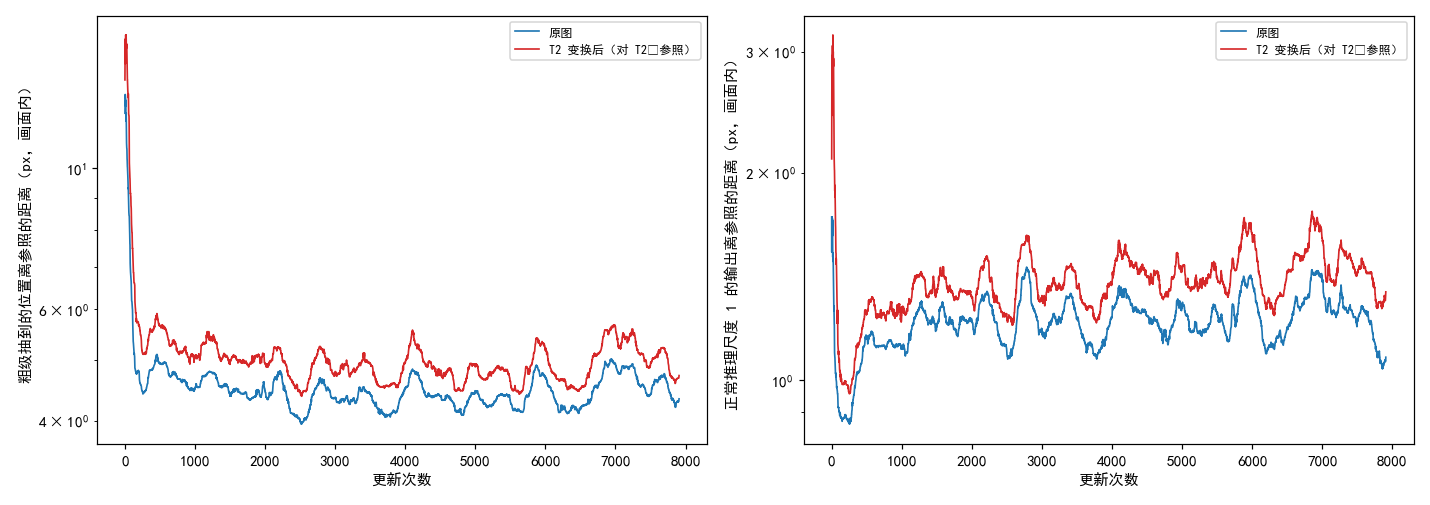
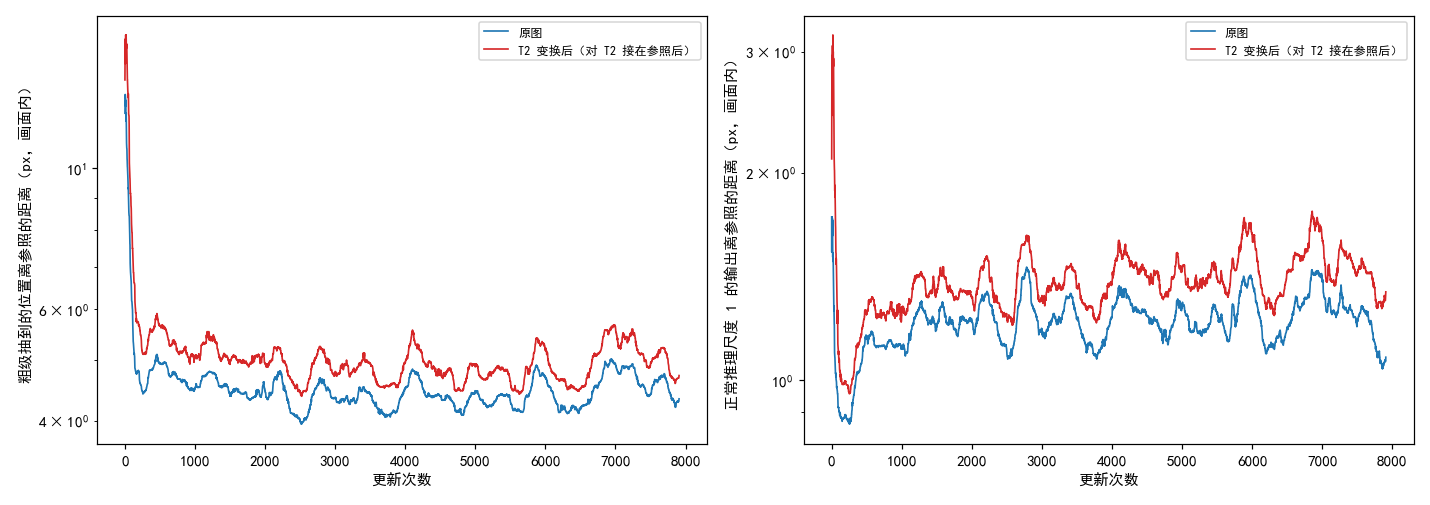
E45 Notes；图例去掉字体缺的 ∘ 后重画（#253）

Changed region(s): [[0.8308, 0.0297, 0.9846, 0.1188], [0.3385, 0.0297, 0.4923, 0.1188]]

diff --git a/runs/E45/notes.md b/runs/E45/notes.md
@@ -1,0 +1,106 @@
+# 加已知扰动等变约束奖励后，Val AUC@5 各段平均与不加相差不到 0.002，最后存档高 0.005
+
+**摘要**
+
+现有的强化学习训练里，奖励看的是模型抽到的对应离参照仿射有多近，参照是模型自己的慢速平均副本推理一次、用 RANSAC 拟合出的仿射。模型和副本一起错时，这个奖励照样高，例如两者都把大的扰动估小。本文在样本筛选门槛 0.8 的配置旁边加一项约束：每步把 SAR 再按一个已知的随机仿射 T2 变换一次，要求模型在变换后的图上抽到的对应贴近“先参照、再 T2”的复合仿射，即输入多变一个已知量，输出也恰好多变这个量。新项系数按前 50 次更新里两项梯度大小之比的中位数定为 0.83。训满 7907 次更新，32 个存档里 15 个的 Val AUC@5 低于不加的同一位置存档；按训练集遍数分四段，各段平均之差在 −0.0001 到 +0.0019 之间。最后存档 0.331 对 0.327，差 +0.0046（95% 区间 +0.0001 到 +0.0091）。训练中，变换后的图上抽到的位置离复合参照的距离始终比原图离参照远 10–20%，这个比例没有随训练缩小。按真实几何差分档，旋转、缩放估小的程度与不加相近。每次更新耗时是不加的 1.4 倍。
+
+**引言**
+
+RoMa 先在粗网格上为光学图的每个格子给出 SAR 图上各位置的概率，训练时从中为每个格子抽一个落点，再逐级细化到原图分辨率。现有的强化学习训练对同一对图抽一组样本，按每个落点离参照仿射映过去的位置有多近给奖励，组内比较好坏后提高好样本的概率。参照来自模型自己的慢速平均副本，所以离参照近只是对的必要条件：如果副本和模型一样把大的旋转、缩放估小，现有奖励看不见。
+
+已知的变换能看见一部分这类错。把 SAR 再旋转、缩放、平移一个已知的量 T2，正确的模型在变换后的图上给出的对应，应当恰好等于原来的对应再接上 T2。若模型往“没有变换”收缩，它在变换后的图上也会少跟一截，偏离“参照再接 T2”。这个目标一半来自外部（T2），一半仍来自模型自己的参照，所以整幅图恒定的偏差（在原图和变换后的图上错得一样）它抓不到。此前多份已知扰动交叉核对参照（E31）能把坍缩的存档和正常存档分开，测试时对多份扰动后的输入推理再平均（E40）则说明模型在多扰动一次的图上更差。本文问的是：把这种已知扰动下的等变要求作为一项约束加在现有奖励旁边，训练出的模型与不加相比如何。
+
+**方法**
+
+*训练设置。* 与样本筛选实验（E41）里参照内点比例门槛 0.8 的那次训练完全相同，只多一项奖励：从原始 RoMa 起训，DINOv2 每块 qkv 加 LoRA（r 8），VGG 放开；细化五级（尺度 16、8、4、2、1）各自在输出周围局部抽签；参照模型的滑动平均系数 τ = 0.996；参照的内点比例低于 0.8 的图对这一步不学、补抽下一对；4 张 V100 数据并行，每次更新每张卡一对图；主学习率 2e-4、LoRA 学习率 4e-4；难版训练扰动（旋转 ±20°、缩放 ±0.2、平移在半径 128 px 的圆盘内）；种子 0；7907 次更新（训练集 4 遍），每 250 次更新存档。对照直接用 E41 门槛 0.8 已有的逐存档结果与训练日志，不重跑，它同样在 4 张 V100 上训练。
+
+*新项。* 每对图照常做扰动、筛选、参照推理和现有项，不改。每步另抽一个随机仿射 T2，幅度取训练扰动的一半：绕中心旋转 ±10°、缩放 ±0.1、平移在半径 64 px 的圆盘内均匀；把已经扰动过的 SAR 按 T2 再变换一次，画面外照现有方式补零。当前模型在（光学图，变换后的 SAR）上照原图同样抽签，粗级一组、细化各级照原图，打分方式与现有项相同，只是参照换成“先参照仿射、再 T2”的复合仿射（下文称复合参照）；按复合参照落到画面外的格子和像素照现有方式置零。总损失为现有项加 0.83 倍的新项。
+
+*系数怎样定。* 从原始 RoMa 起，用同一配置但新项系数为 0（照算新项、量完梯度后不用它更新）训 50 次更新，每次在两项共用的参数上量现有项与新项各自的梯度范数，取“现有项 ÷ 新项”的中位数 0.832（四分位 0.73–0.89，49 次有效），取两位有效数字 0.83，之后全程固定。两项梯度范数的中位数分别为 5.21 与 7.38。
+
+*停止规则与坍缩判据。* 票里规定：训到第 8 个存档（第 2000 次更新）时，若 8 个存档的 Val AUC@5 都低于不加的同一位置，或 8 个差的平均低于 −0.01，就停训。实际 8 个差的平均为 +0.0007，其中 4 个为负，未触发，训满全程。坍缩判据照 E41（离参照的距离超过 100 px 或画面内格子比例低于 0.5），全程未触发。
+
+*评测。* 存档在不加扰动的验证集（652 对有标注）上评测，口径同 E41：配准误差是光学图上的标注点经估计的仿射映射后，到 SAR 图上对应标注点的平均距离；AUC@x 是“误差不超过 t 像素的图对比例”在 t 从 0 到 x 像素上的面积除以 x；SR@x 是误差不超过 x 像素的图对比例。与不加同一存档位置的 AUC@5 之差用配对自助法估 95% 区间：在同一批 652 对上有放回地重抽 2000 次，取差的 2.5% 与 97.5% 分位。本实验的存档都在 V100 上评测；不加的存档有的在 V100、有的在 RTX 3090 上评测。
+
+*误差随真实几何差的变化。* 用两边最后存档在验证集上的输出。每对图用标注点最小二乘拟合出真实仿射，取它的旋转角绝对值、缩放偏离（|√det − 1|）、平移幅度（光学标注点重心被映过去的位移）；每个量按三分位分三档，每档给配准误差中位数，以及估出的仿射同一个量与真值之比的中位数（1 表示估得一样大，小于 1 表示估小）。
+
+**结果**
+
+*Val AUC@5 与不加在同一存档位置的差在 −0.006 到 +0.013 之间来回，各段平均之差不到 0.002。* 图 1、表 1。32 个存档里 15 个低于不加；区间整体在 0 以上的 5 个、整体在 0 以下的 4 个，前后交错，没有集中在某一段。按训练集遍数分四段，各段平均之差为 +0.0016、+0.0019、+0.0004、−0.0001，全部 32 个存档平均 +0.0009。E41 自身相邻存档间的起伏约 0.01，与这些差同一量级或更大。
+
+![](extra/diff.png)
+
+图 1：各存档位置 Val AUC@5 之差（加新项减不加）在 0 上下来回。竖线为 95% 配对自助区间，灰竖线为训练集遍数的分界。
+
+表 1：按训练集遍数分段的 Val AUC@5 平均。差为加新项减不加；“低于”为差小于 0 的存档数，“区间在 0 以上 / 以下”为 95% 区间整体在 0 以上 / 以下的存档数。
+
+| 段（更新次数） | 存档数 | 加新项（E45） | 不加（E41 门槛 0.8） | 平均差 | 低于 | 区间在 0 以上 / 以下 |
+|---|---|---|---|---|---|---|
+| 1（250–1750） | 7 | 0.3152 | 0.3136 | +0.0016 | 3 | 1 / 0 |
+| 2（2000–3750） | 8 | 0.3278 | 0.3259 | +0.0019 | 3 | 2 / 1 |
+| 3（4000–5750） | 8 | 0.3285 | 0.3281 | +0.0004 | 4 | 0 / 1 |
+| 4（6000–7907） | 9 | 0.3280 | 0.3282 | −0.0001 | 5 | 2 / 2 |
+
+*最后存档 AUC@5 高 0.005，其余指标相近。* 表 2。第 7907 次更新：AUC@5 0.331 对 0.327，差 +0.0046（+0.0001 到 +0.0091），区间下端贴着 0，换一批验证图差可能缩到接近 0；它前两个存档的差分别为 +0.0104 与 +0.0007。AUC@3 相同，SR@3 低 0.005，SR@5 高 0.012，误差中位数低 0.04 px。
+
+表 2：第 7907 次更新存档的 Val 指标。差为加新项减不加。
+
+| | AUC@5 | AUC@3 | SR@3 | SR@5 | 误差中位数（px） |
+|---|---|---|---|---|---|
+| 加等变约束（E45） | 0.331 | 0.102 | 0.420 | 0.845 | 3.26 |
+| 不加（E41 门槛 0.8） | 0.327 | 0.102 | 0.425 | 0.833 | 3.30 |
+| 差 | +0.005 | 0.000 | −0.005 | +0.012 | −0.04 |
+
+*实际施加的新项梯度全程约为现有项的 1 倍；离参照的距离、画面内格子比例与不加走势相近。* 图 2。按 0.83 倍算的“新项 ÷ 现有项”梯度范数比，前 250 次更新的中位数为 1.03，此后各遍为 0.96–0.99；“让两者 1:1 的系数”从开训时的 0.90 缓慢升到 0.98。离参照的距离在第 2000 次更新以后多数时候比不加高几 px，峰值到 36 px（不加约 27 px），离坍缩线 100 px 很远；画面内格子比例、训练图对上模型自身拟合的内点比例与不加交织在一起。图 2 第一、二格里新项的奖励均值高于现有项，是因为新项只在复合参照落在画面内的格子上取平均，现有项的均值含画面外置零的格子，两者不能直接比大小。
+
+![](extra/curves.png)
+
+图 2：加新项的训练与不加走势相近，两项梯度全程约 1:1。上排：粗级奖励均值、细化尺度 16 与 1 的奖励均值（现有项与新项）、两项在共用参数上的梯度范数之比；下排：离参照的距离、画面内格子比例、训练图对上模型自身拟合的内点比例，红为加新项，灰为不加。均为 200 次更新的滑动中位数。
+
+*变换后的图上抽到的位置离复合参照，比原图离参照远 10–20%，这个比例没有随训练缩小。* 图 3、表 3。只取参照落在画面内的格子：粗级抽到的位置，第 1–250 次更新变换后的图离复合参照 5.56 px、原图离参照 4.63 px，之比 1.20；之后降到 1.10–1.14，最后一遍 1.10。正常推理（不抽签）在尺度 1 的输出，两者之比从 1.11 升到 1.18。两种距离都在开训后 300 次更新内快速下降，之后变化不大。
+
+![](extra/eqv.png)
+
+图 3：变换后的图（红）离复合参照始终比原图（蓝）离参照远。左为粗级抽到的位置，右为正常推理尺度 1 的输出；纵轴为对数；均为 200 次更新的滑动中位数。
+
+表 3：按更新次数分段，变换后的图离复合参照与原图离参照的平均距离（px，只取参照落在画面内的格子）。
+
+| 更新 | 粗级：变换后 | 粗级：原图 | 之比 | 尺度 1：变换后 | 尺度 1：原图 | 之比 |
+|---|---|---|---|---|---|---|
+| 1–250 | 5.56 | 4.63 | 1.20 | 1.00 | 0.90 | 1.11 |
+| 251–500 | 5.66 | 4.95 | 1.14 | 1.22 | 1.12 | 1.09 |
+| 501–1000 | 5.16 | 4.62 | 1.12 | 1.26 | 1.12 | 1.12 |
+| 1001–1977 | 5.09 | 4.52 | 1.13 | 1.35 | 1.22 | 1.10 |
+| 1978–3954 | 4.77 | 4.32 | 1.11 | 1.36 | 1.21 | 1.12 |
+| 3955–5931 | 4.86 | 4.40 | 1.10 | 1.45 | 1.25 | 1.17 |
+| 5932–7907 | 4.94 | 4.50 | 1.10 | 1.44 | 1.23 | 1.18 |
+
+*按真实几何差分档，两边配准误差和估小的程度相近。* 图 4、表 4。验证集的真实几何差不大：旋转角最大 6.1°，缩放偏离最大 0.13，平移最大 250 px，都在训练扰动的范围以内。旋转最大的一档（1.0°–6.1°），误差中位数 3.95 对 4.05 px，估出的旋转角与真值之比 0.91 对 0.95，加新项估得略小；缩放偏离后两档之比 0.92 对 0.89–0.91；平移各档之比两边都约为 1。旋转、缩放最小的一档，真值接近 0，比值不稳定（1.03–1.45），不宜解读。
+
+![](extra/by_geom.png)
+
+图 4：按真实几何差三分位分档，两边的配准误差中位数（上排）和“估出值 ÷ 真值”的中位数（下排）相近。左起为旋转角、缩放偏离、平移幅度。
+
+表 4：最后存档在验证集上按真实几何差分档的结果（每档约 217 对）。
+
+| 量 | 档 | 范围 | 误差中位数 E45 / E41（px） | 估出 ÷ 真值 E45 / E41 |
+|---|---|---|---|---|
+| 旋转角（°） | 1 | 0.00–0.29 | 2.47 / 2.46 | 1.03 / 1.18 |
+| | 2 | 0.29–1.01 | 3.27 / 3.35 | 0.85 / 0.84 |
+| | 3 | 1.01–6.06 | 3.95 / 4.05 | 0.91 / 0.95 |
+| 缩放偏离 | 1 | 0.000–0.011 | 3.28 / 3.28 | 1.45 / 1.37 |
+| | 2 | 0.011–0.021 | 2.79 / 2.75 | 0.92 / 0.89 |
+| | 3 | 0.021–0.134 | 3.76 / 3.83 | 0.92 / 0.91 |
+| 平移幅度（px） | 1 | 0.2–11.8 | 2.71 / 2.77 | 1.00 / 1.00 |
+| | 2 | 11.8–35.0 | 3.46 / 3.54 | 0.99 / 0.99 |
+| | 3 | 35.0–249.5 | 3.59 / 3.51 | 1.00 / 1.00 |
+
+*每次更新的耗时是不加的 1.4 倍，峰值显存多 1 GB。* 每次更新耗时中位数 1.68 s 对 1.19 s，其中新项 0.62 s；训练墙钟时间 4.68 h 对 3.35 h；第 1 次更新的峰值显存 12.2 GB 对 11.2 GB。
+
+**讨论**
+
+票里问的是已知扰动下的等变要求作为现有奖励旁边的一项约束时，训练出的模型与不加相比如何。本次的答案是：训满 4 遍，逐存档的 Val AUC@5 与不加的差在 0 上下来回，各段平均之差不到 0.002，比 E41 自身相邻存档间的起伏小；最后存档高 0.005，区间下端贴着 0。新项要补的“大变换估小”，在验证集的小变换范围内没有看到两边的差别。
+
+局限：单种子；对照没有重跑，本实验的存档都在 V100 上评测，对照有的在 RTX 3090 上评测；T2 幅度只取一组；目标一半来自模型自己的参照，整幅图恒定的偏差抓不到；这一项也有数据增强的成分（模型多见了一份再变换过的 SAR），本次没有区分实验；验证集的真实旋转最大约 6°，远小于训练扰动的 ±20°，分档结果只覆盖小变换。
+
+尚未解释的现象。第一，新项的梯度全程与现有项约 1:1，但变换后的图离复合参照比原图离参照远 10–20% 的差距没有随训练缩小，尺度 1 上还略有扩大。可能的原因之一是这部分差距来自补零区和图像边缘（变换后可用的画面更少），新项本来就压不下去（未检验）；可以按格子离画面边缘的远近分开统计两种距离来区分。第二，新项的粗级奖励在第 300 次更新以后基本不变（约 0.80），新项可能主要在起数据增强的作用（未检验），可以用同样的 T2 变换后图对、但参照直接在变换后的图上推理（不用复合参照）训练一次来区分。第三，第 2500 与第 7500 次更新两处的差超过 +0.01，相邻存档又回到 0 附近；这两处不加的训练恰好处于自身的低点（0.319 与 0.320，前后存档约 0.33），加新项在第 2500 次更新则处于自身的高点（0.333，前后为 0.322 与 0.327）；单个存档的差受两边各自起伏的影响都很大。
